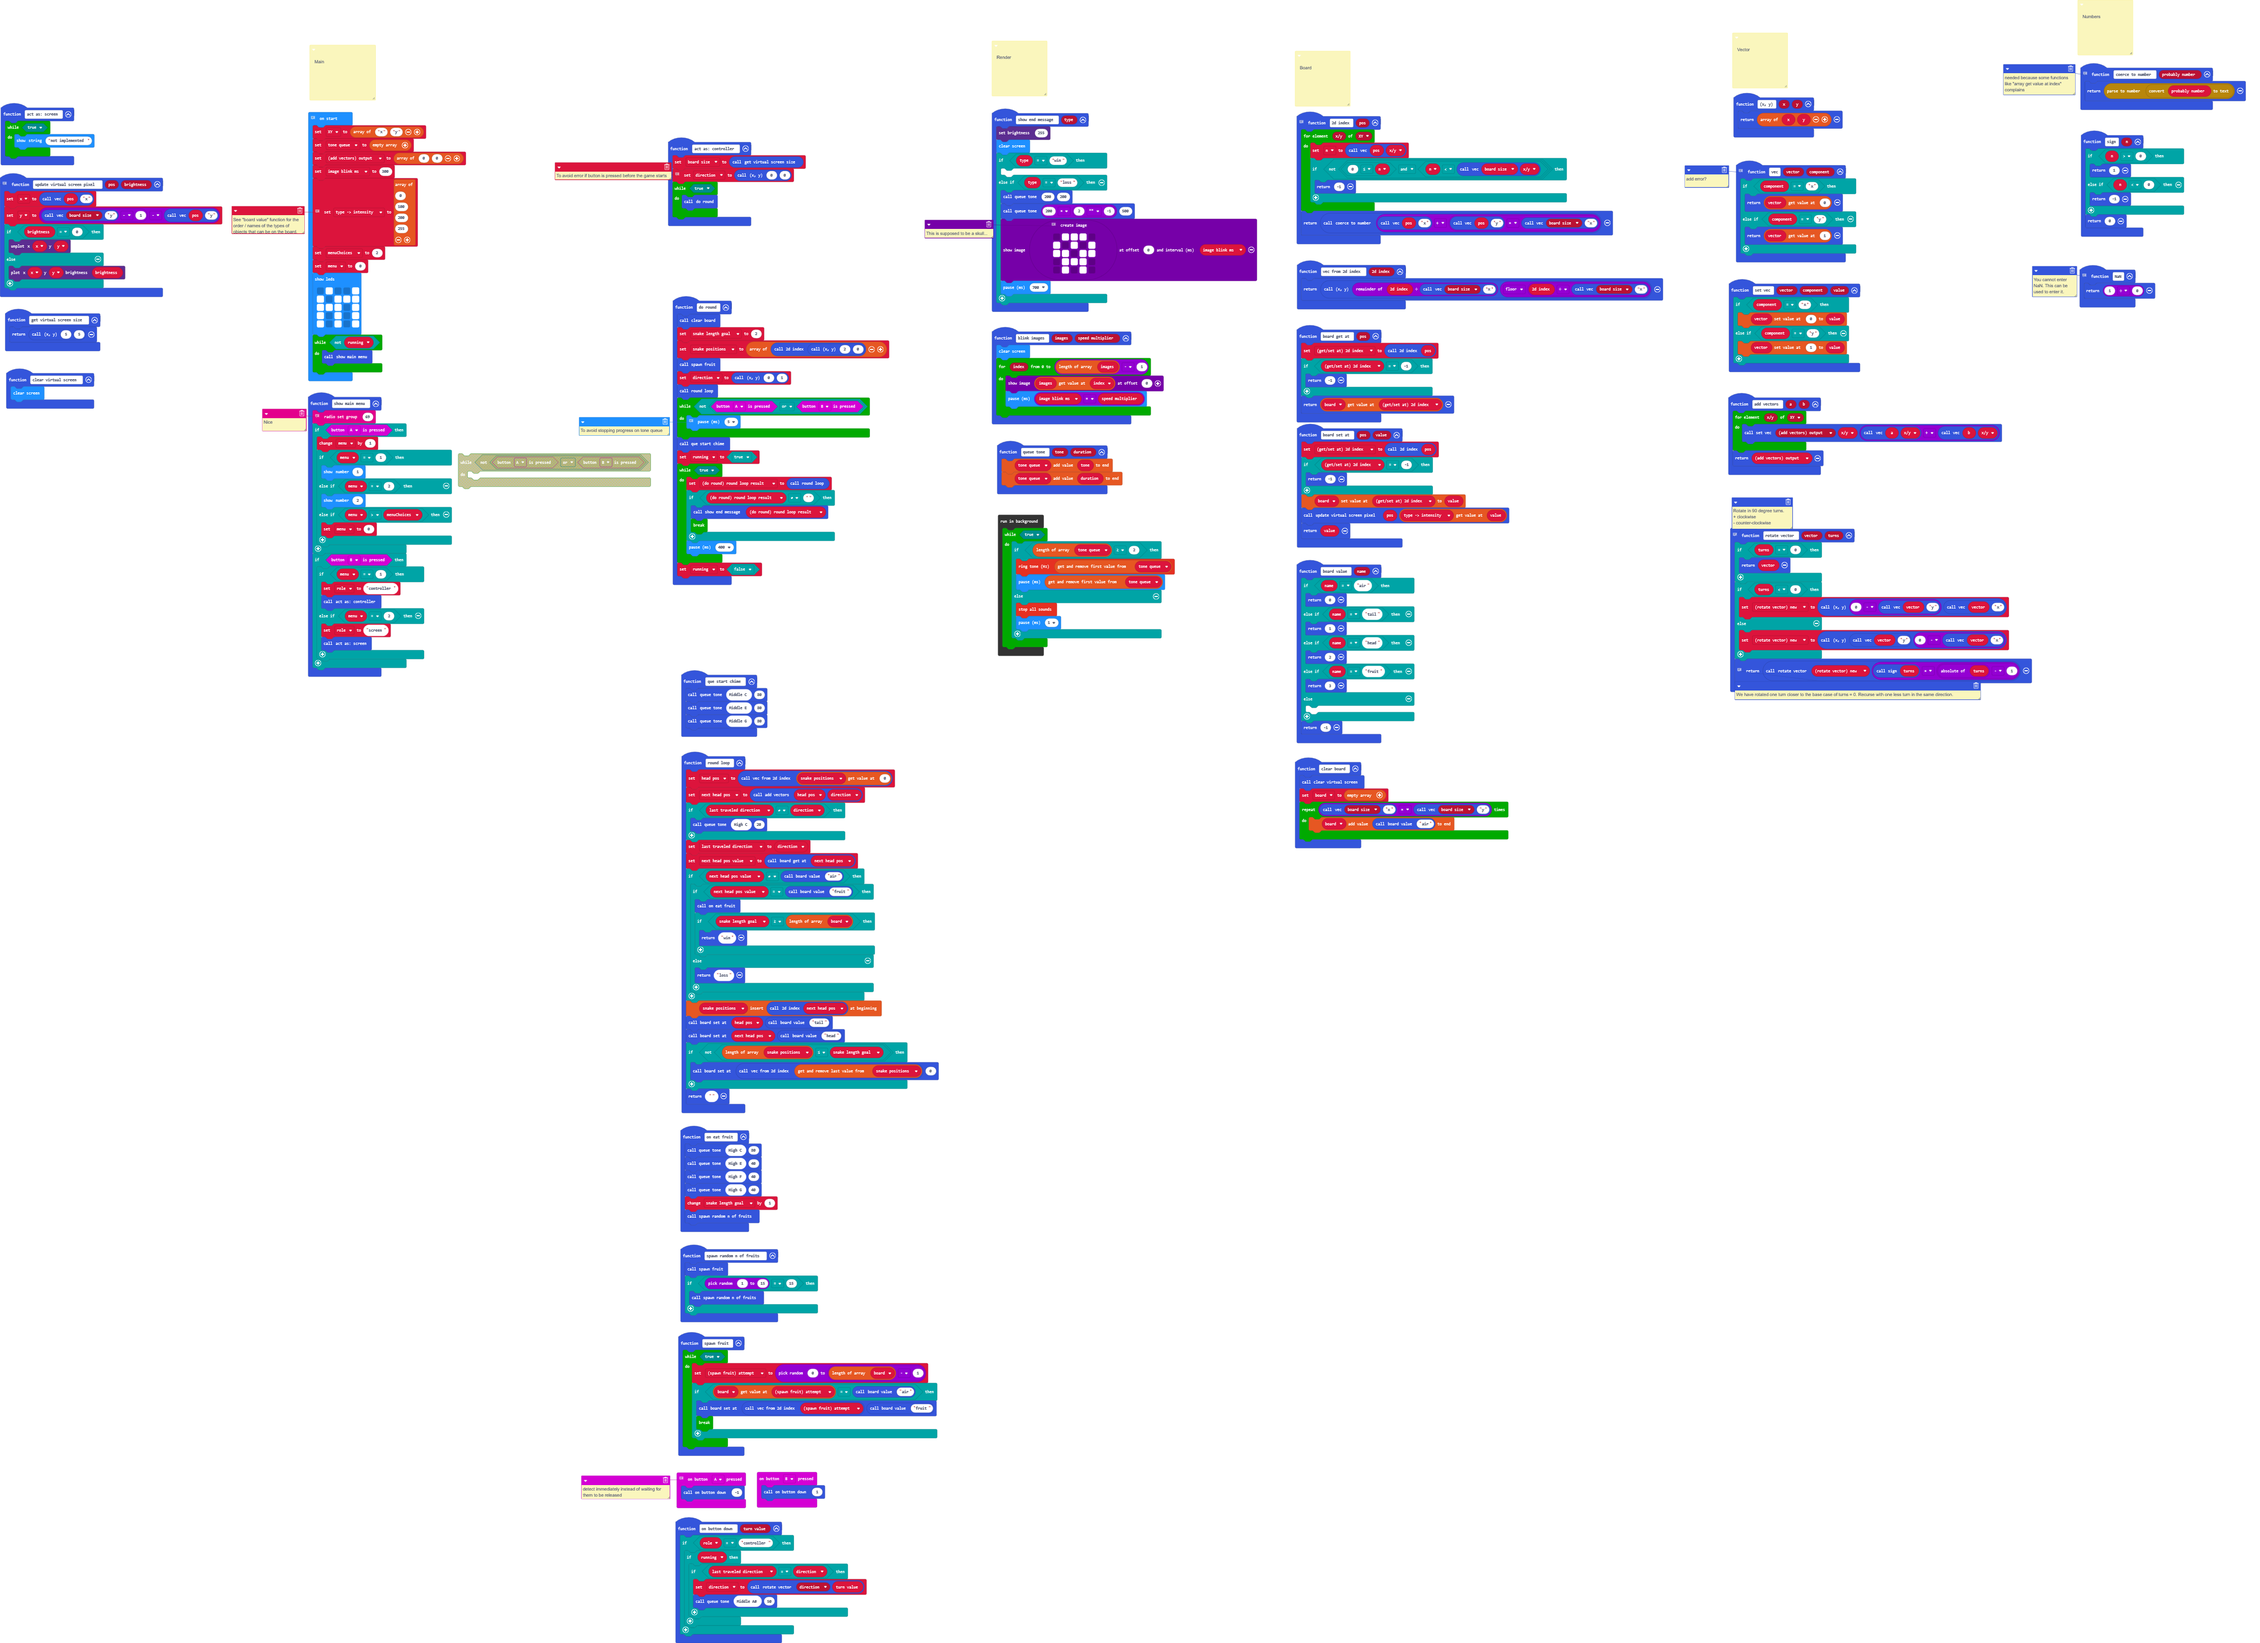
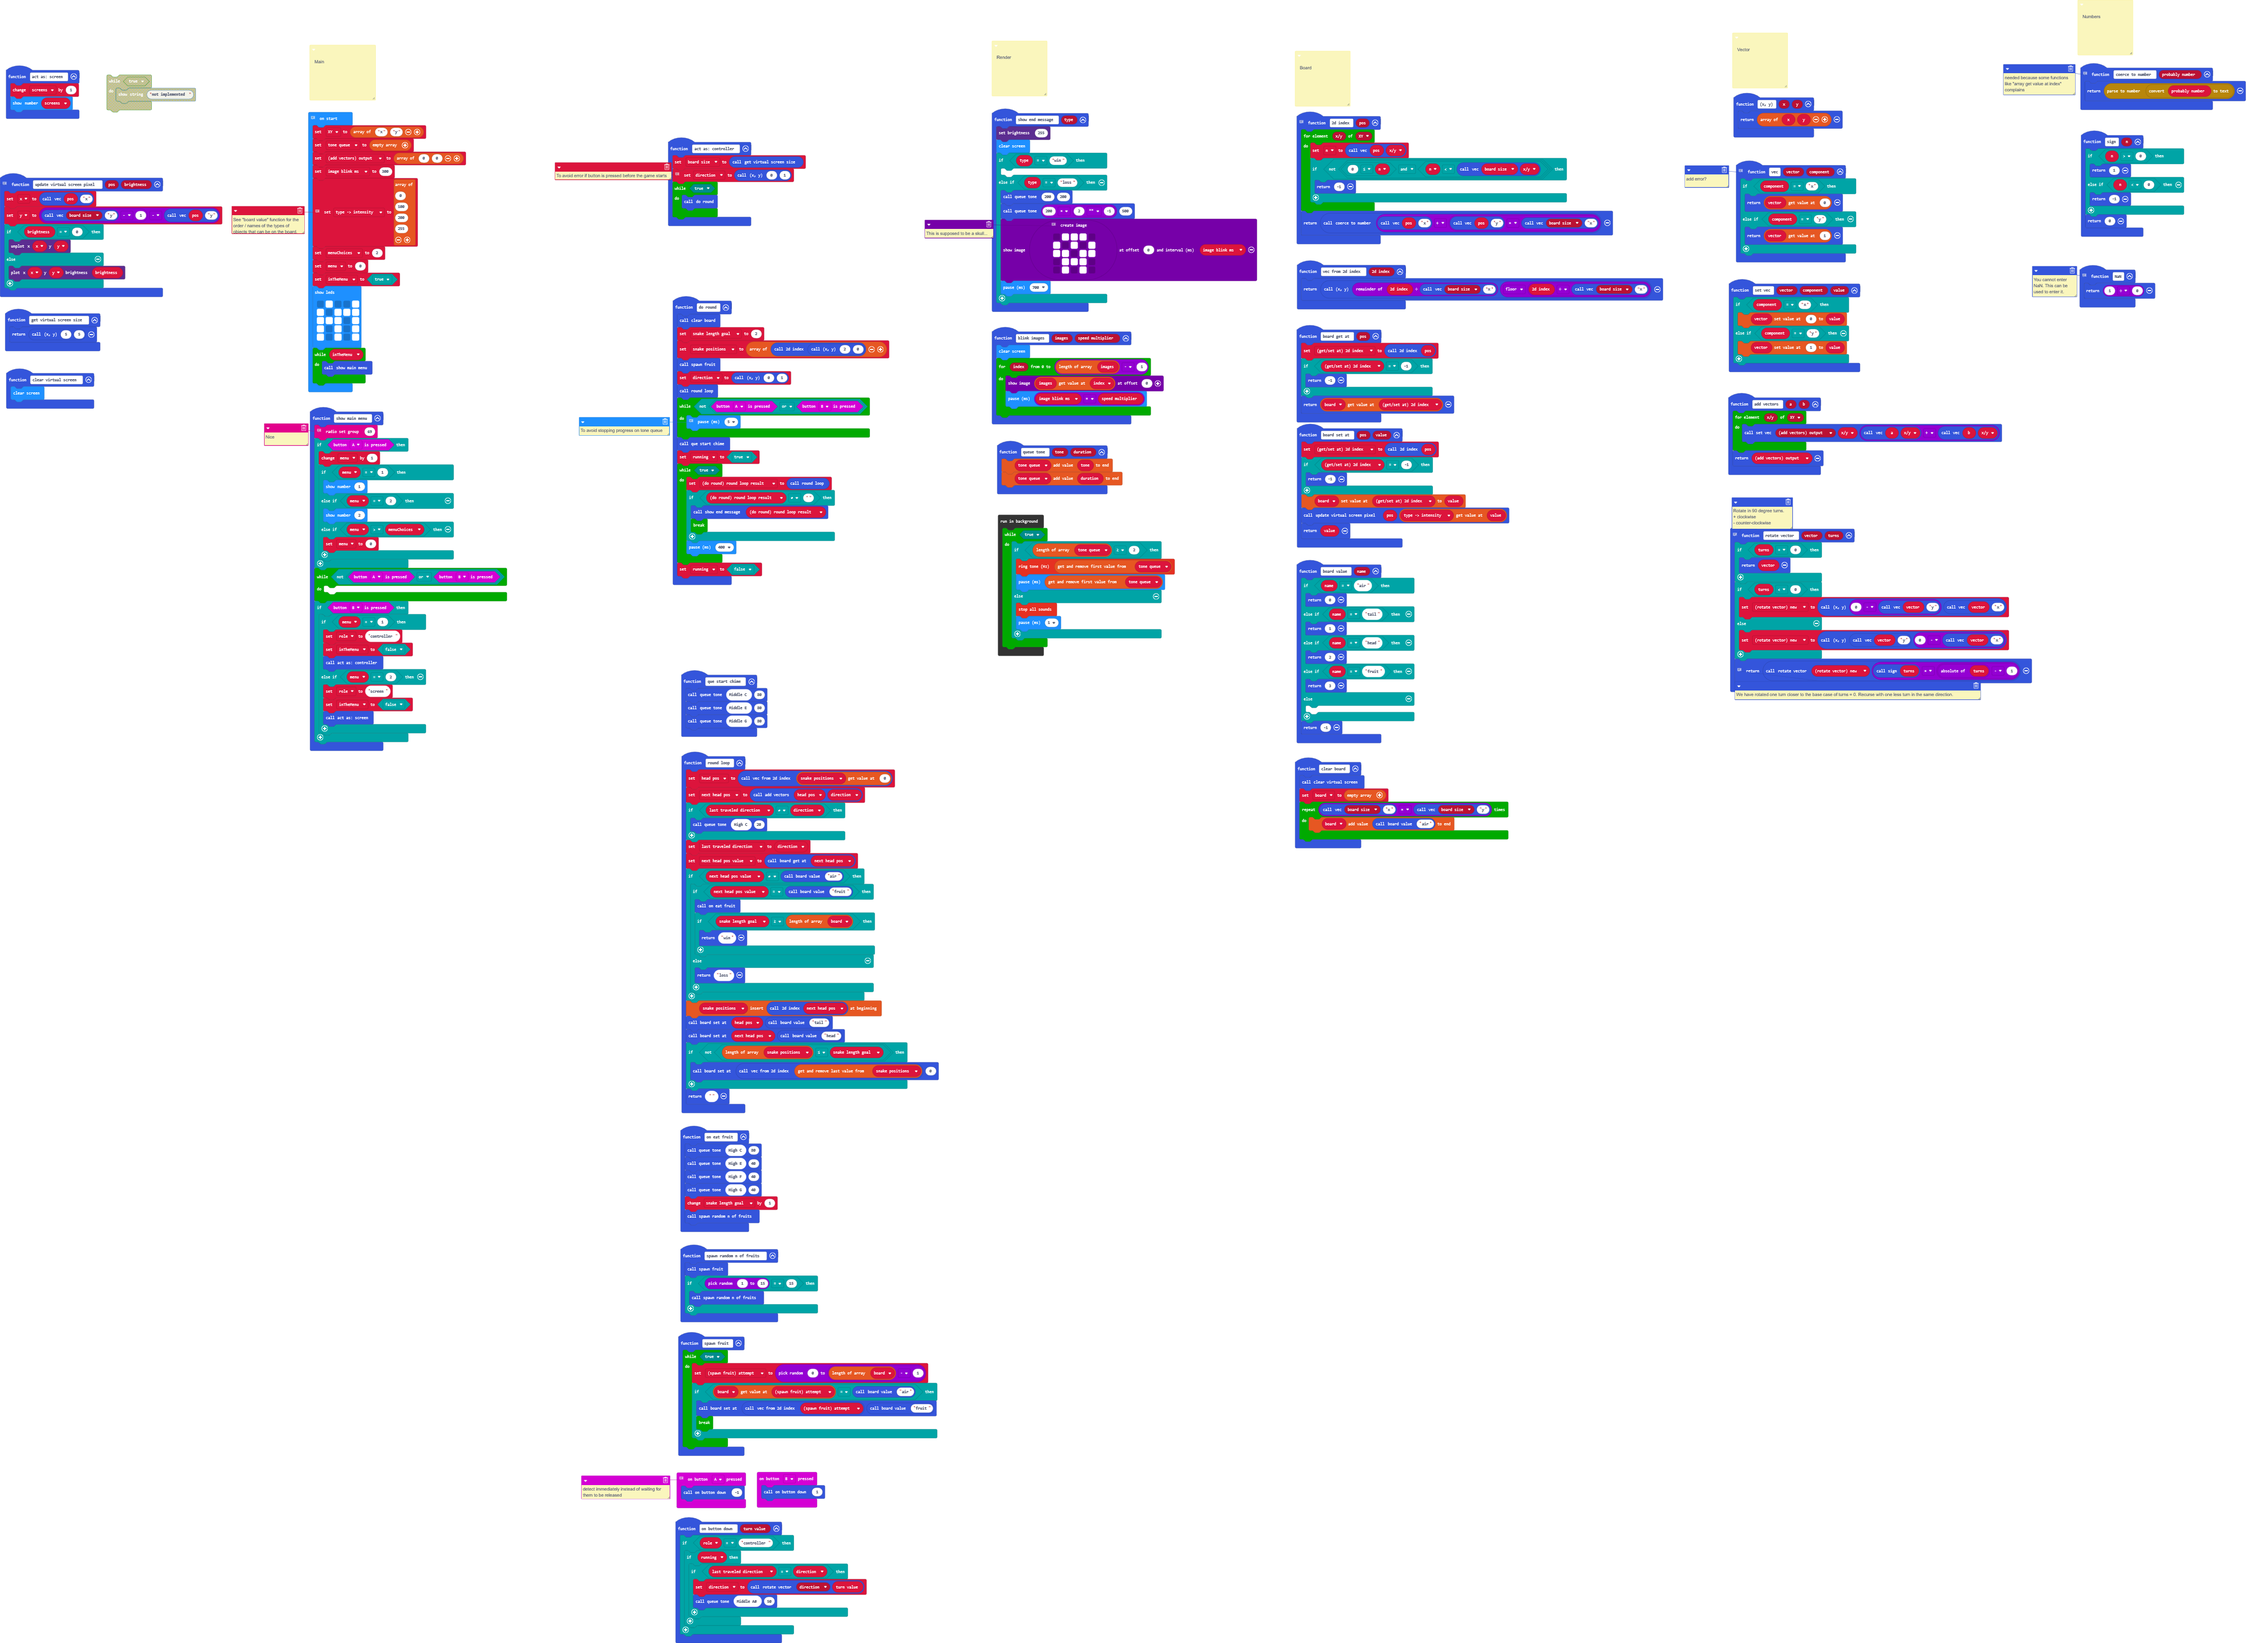
change while condition on start and start on screen pairing

Changed region(s): [[0.0935, 0.1557, 0.2805, 0.4672], [0.0, 0.0311, 0.0935, 0.1246]]

diff --git a/main.ts b/main.ts
@@ -16,9 +16,8 @@ function vec (vector: any[], component: string) {
     }
 }
 function act_as_screen () {
-    while (true) {
-        basic.showString("not implemented")
-    }
+    screens += 1
+    basic.showNumber(screens)
 }
 function set_vec (vector: any[], component: string, value: number) {
     if (component == "x") {
@@ -34,7 +33,7 @@ function NaN2 () {
 function act_as_controller () {
     board_size = get_virtual_screen_size()
     // To avoid error if button is pressed before the game starts
-    direction = x_y(0, 0)
+    direction = x_y(0, 1)
     while (true) {
         do_round()
     }
@@ -278,12 +277,17 @@ function show_main_menu () {
             menu = 0
         }
     }
+    while (!(input.buttonIsPressed(Button.A) || input.buttonIsPressed(Button.B))) {
+    	
+    }
     if (input.buttonIsPressed(Button.B)) {
         if (menu == 1) {
             role = "controller"
+            inTheMenu = false
             act_as_controller()
         } else if (menu == 2) {
             role = "screen"
+            inTheMenu = false
             act_as_screen()
         }
     }
@@ -308,13 +312,15 @@ let spawn_fruit_attempt = 0
 let y = 0
 let x: any = null
 let do_round_round_loop_result = ""
+let running = false
 let snake_positions: number[] = []
 let snake_length_goal = 0
 let board: number[] = []
 let getset_at_2d_index = 0
 let direction: number[] = []
 let board_size: number[] = []
-let running = false
+let screens = 0
+let inTheMenu = false
 let menu = 0
 let menuChoices = 0
 let type__intensity: number[] = []
@@ -335,6 +341,7 @@ type__intensity = [
 ]
 menuChoices = 2
 menu = 0
+inTheMenu = true
 basic.showLeds(`
     . # . . #
     # . # # #
@@ -342,7 +349,7 @@ basic.showLeds(`
     # . # . #
     # . # . #
     `)
-while (!(running)) {
+while (inTheMenu) {
     show_main_menu()
 }
 control.inBackground(function () {
